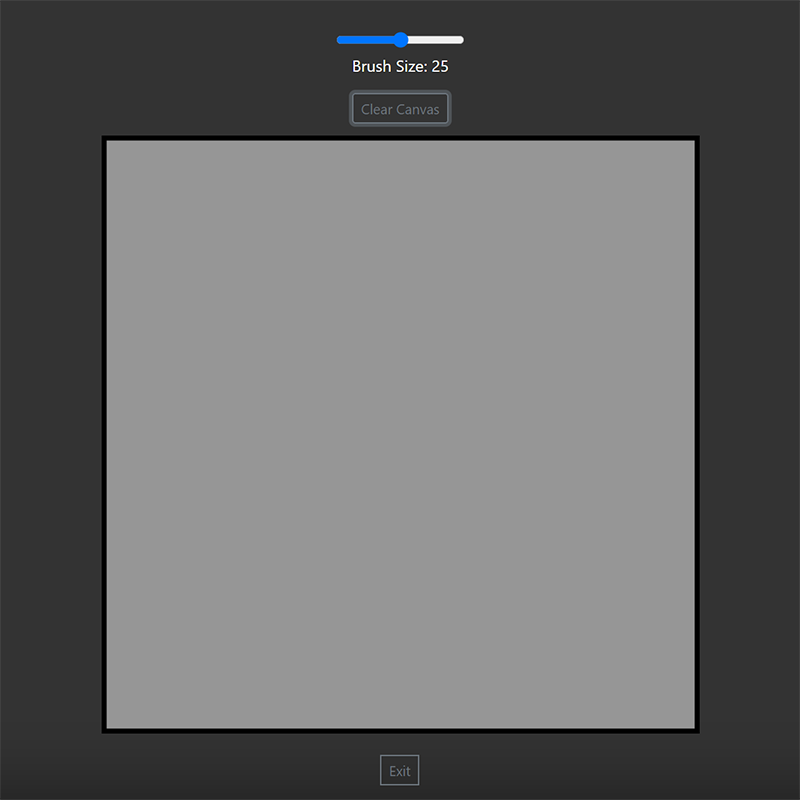
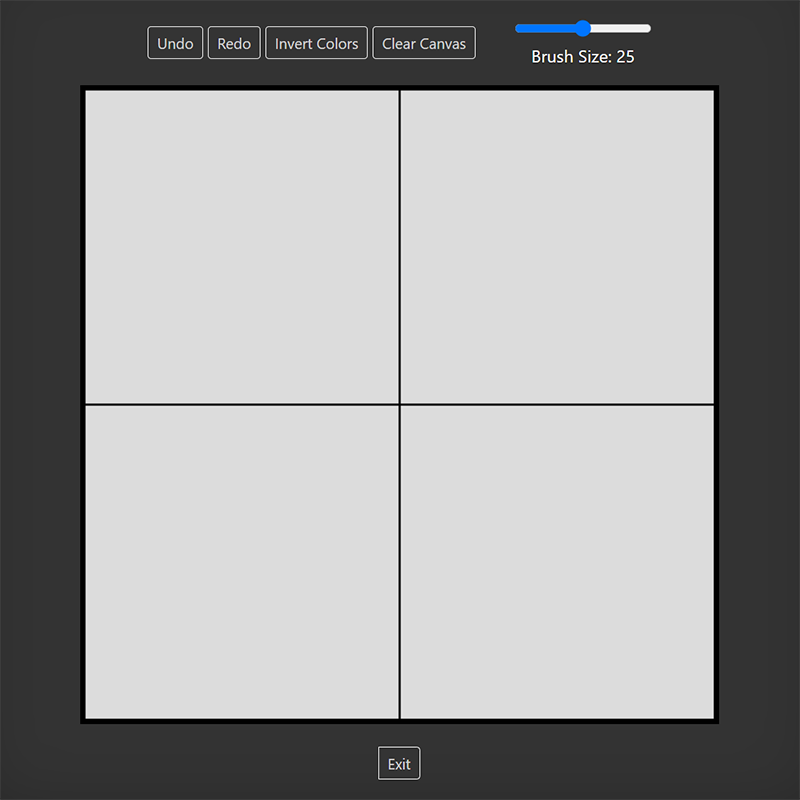
Updating Free Draw test info page

diff --git a/public/physicians/testInfo/free_draw.html b/public/physicians/testInfo/free_draw.html
@@ -39,6 +39,7 @@
 		.columns {
 			float: left;
 			width: 48%;
+			height: 100%;
 			padding: 30px;
 			margin-top: 25px;
 			border-radius: 10px;
@@ -46,7 +47,7 @@
 			box-shadow: 0px 0px 8px rgba(0, 0, 0, 0.1);
 			text-align: center;
 			display: table-cell;
-			height: 250px;
+			/*height: 250px;*/
 			margin-right: 2px;
 			margin-left: 15px;
 		}
@@ -101,10 +102,28 @@
 						style="height: 200px; width: 200px;">
 				</div>
 				<div class="columns">
-					<p style="padding: 45px;">
+					<p>
 						The test starts off with a blank canvas. The user at this point can freely draw onto the canvas.
-						Additional items are available around the canvas. There is a slider to change the size of the
-						brush, as well as a "Clear Canvas" button to erase anything they've drawn.
+						Additional items are available around the canvas. The user's mouse cursor will be replaced with
+						the brush indicator. The brush indicator previews both where the brush is, the color, and also the 
+						size of the brush.
+					</p>
+				</div>
+			</div>
+			<div class="rows" style="height: auto">
+				<div class="columns">
+					<img src="./images/free_draw/free_draw_top-tools.png" alt="Free Draw Start"
+						style="height: 200px; width: 300px;">
+				</div>
+				<div class="columns">
+					<p>
+						Above the canvas, there are a few items. An "Undo" button to undo the last item drawn on the canvas.
+						"Redo" will put the item just removed (via Undo) back onto the canvas. "Invert Colors" will swap
+						the color of the canvas with the color of the brush and the color of anything that had already been
+						drawn onto the canvas. "Clear Canvas" will remove everything from the canvas.
+						<br><br>
+						(Tip: Pressing CTRL+Z(Windows) / CMD+Z(MacOS) can also undo. Pressing CTRL+Y(Windows) / CMD+Z(Mac)
+						can also redo)
 					</p>
 				</div>
 			</div>
@@ -145,6 +164,16 @@
 	<!-- Initialize Firebase -->
 	<script src="/__/firebase/init.js"></script>
 
+<!--	<script>-->
+<!--		(function updateHeights(){-->
+<!--			let rows = document.getElementsByClassName("rows");-->
+<!--			rows.forEach((parent) => {-->
+<!--				// parents.getElements-->
+<!--				// jQuery children()-->
+<!--			});-->
+<!--		})();-->
+<!--	</script>-->
+	
 	<script>
 		const signOut = document.querySelector('.sign-out');
 		// sign out
